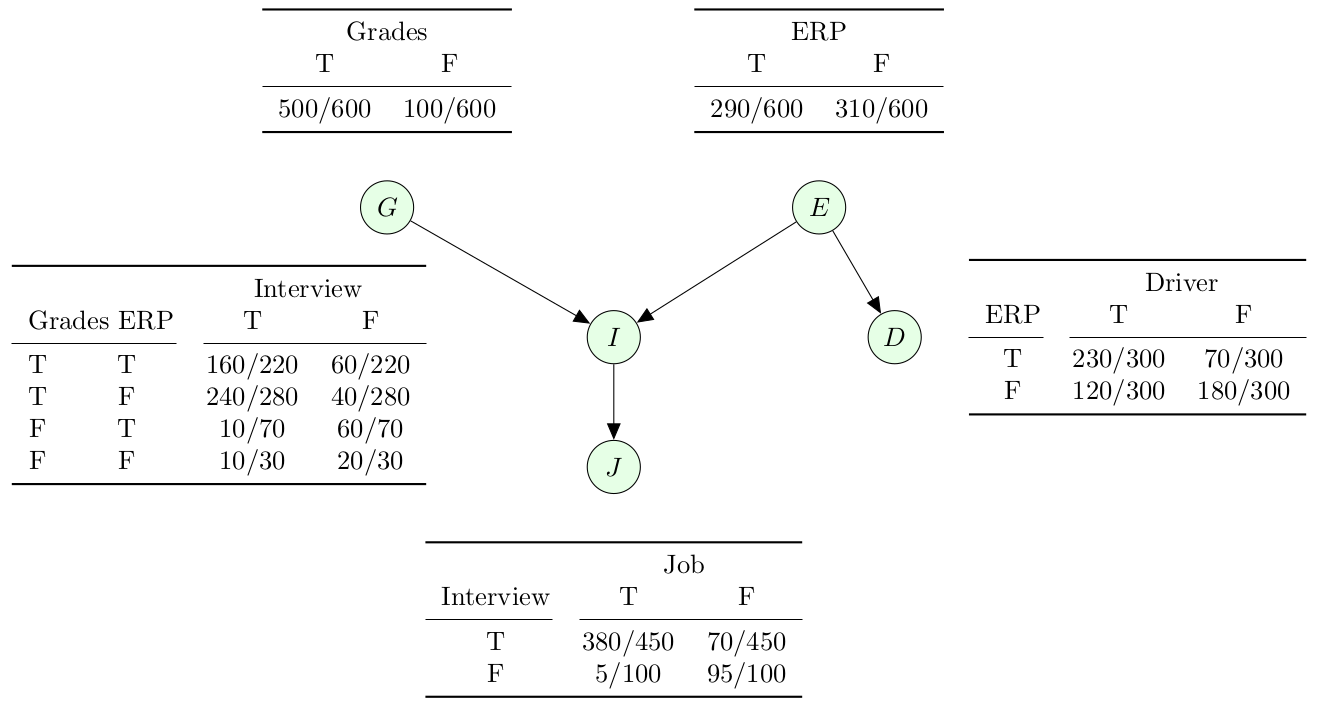
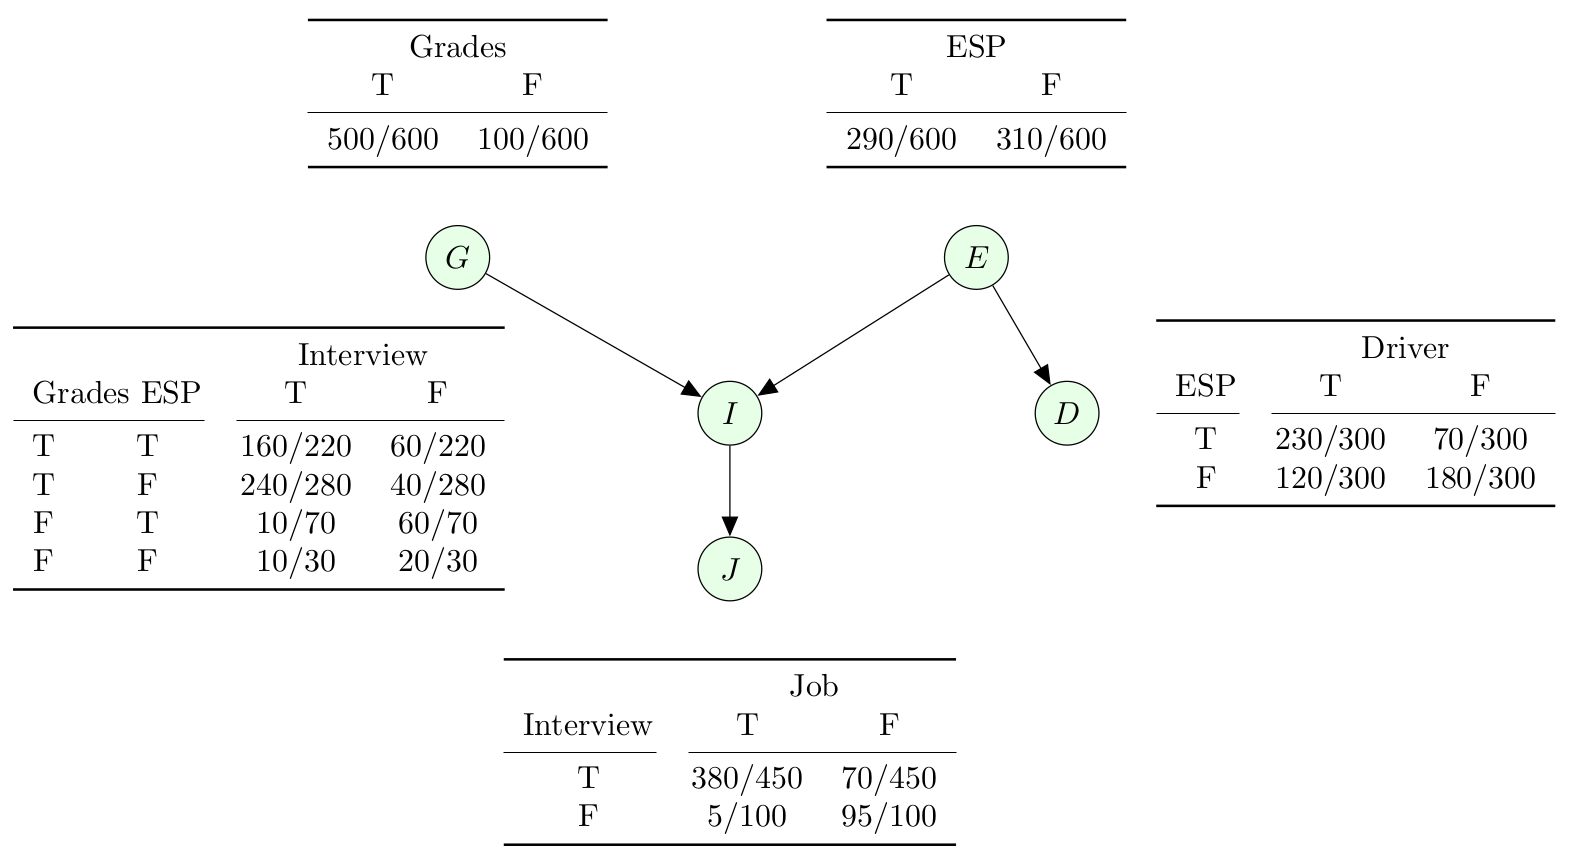
update

diff --git a/files/l7.md b/files/l7.md
@@ -218,7 +218,7 @@ false), then the space and computational complexity is $\mathcal{O}(2^n)$.
 Suppose there are 5 variables:
 
 1. Grades(G)
-2. ER\Pr(E)
+2. ESP(E)
 3. Interview (I)
 4. Job Offer (J)
 5. Driver’s Mood(D)
@@ -230,6 +230,7 @@ performance in turn directly affects the Job offer. However, we know that
 having to pay ESP can causally affects the Driver’s mood, but the
 Driver’s mood cannot causally affect any other variable. With that we
 form the graph as shown in Figure 2.
+
 |![Figure 2](/images/markdown-images/L7/Bayesian_network.png "fig:")|
 |:---:|
 |*Figure 2: Bayesian Network*|
